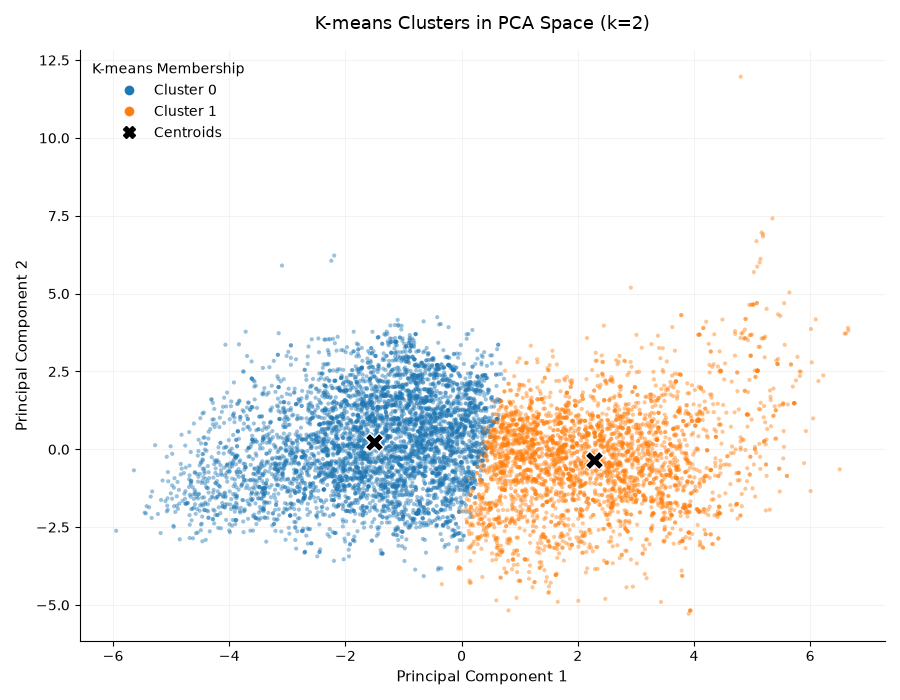
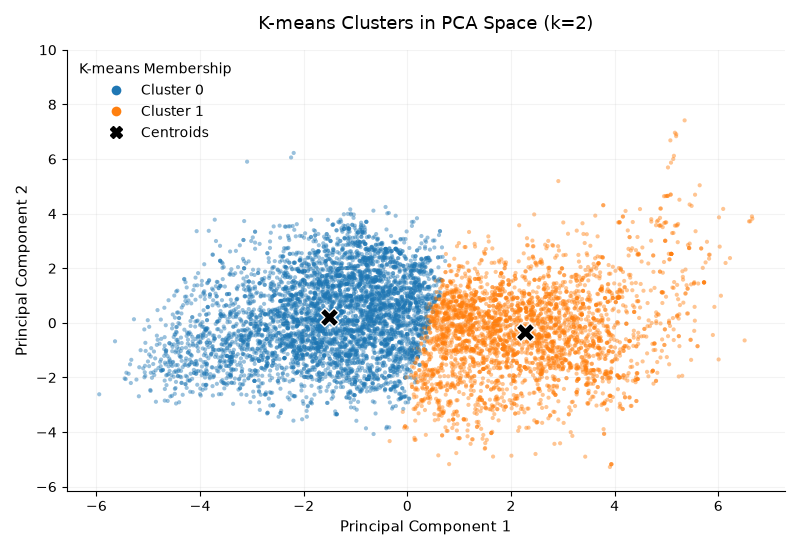
Add LOWESS curve to k-means scatterplot.

diff --git a/src/unsupervised_clustering/helper_functions.py b/src/unsupervised_clustering/helper_functions.py
@@ -12,9 +12,11 @@ import math
 import pandas as pd
 import numpy as np
 import matplotlib.pyplot as plt
+from matplotlib.lines import Line2D
 import seaborn as sns
 from sklearn.cluster import KMeans
 from sklearn.metrics import silhouette_score
+from statsmodels.nonparametric.smoothers_lowess import lowess
 
 from src.config import RANDOM_SEED
 
@@ -465,7 +467,7 @@ def plot_kmeans_silhouette(representations, k_range=range(2, 13), sample_size=30
 
     return results_df
 
-def plot_kmeans_pca_scatter(X_pca, n_clusters=2, n_components=5, point_size=9, alpha=0.45):
+def plot_kmeans_pca_scatter(X_pca, n_clusters=2, n_components=5, point_size=9, alpha=0.45, show_lowess=True, lowess_frac=0.3):
     """
     Fit K-means using the selected number of PCs and plot cluster membership in the PC1-PC2 plane.
 
@@ -481,6 +483,7 @@ def plot_kmeans_pca_scatter(X_pca, n_clusters=2, n_components=5, point_size=9, a
     labels : Cluster assignments.
     """
 
+    X_pca_df = X_pca.copy()
     X_pca = np.asarray(X_pca)
     X_model = X_pca[:, :n_components]
     model = KMeans(n_clusters=n_clusters, random_state=RANDOM_SEED, n_init=10)
@@ -491,41 +494,28 @@ def plot_kmeans_pca_scatter(X_pca, n_clusters=2, n_components=5, point_size=9, a
     palette = sns.color_palette("tab10", n_colors=n_clusters)
     colors = np.array(palette)[labels]
 
-    fig, ax = plt.subplots(figsize=(9,7))
+    fig, ax = plt.subplots(figsize=(8,5.5))
 
-    # Draw all observations in one scatter call
-    ax.scatter(
-        X_pca[:, 0],
-        X_pca[:, 1],
-        c=colors,
-        s=point_size,
-        alpha=alpha,
-        linewidths=0,
-        rasterized=True
-    )
+    # Scatter plot
+    ax.scatter(X_pca[:, 0], X_pca[:, 1], c=colors, s=point_size, alpha=alpha, linewidths=0, rasterized=True)
 
-    # Project fitted centroids onto PC1-PC2
+    if show_lowess:
+            smoothed = lowess(endog=X_pca_df["PC2"], exog=X_pca_df["PC1"], frac=lowess_frac, return_sorted=True)
+            ax.plot(smoothed[:, 0], smoothed[:, 1], color="black", linewidth=2.2, alpha=0.85, linestyle="--", zorder=5)
+
+    # Project fitted centroids onto scatter plot.
     centers = model.cluster_centers_[:, :2]
 
-    ax.scatter(
-        centers[:, 0],
-        centers[:, 1],
-        marker="X",
-        s=180,
-        c="black",
-        edgecolors="white",
-        linewidths=1,
-        zorder=5,
-        label="Centroids"
-    )
+    ax.scatter(centers[:, 0], centers[:, 1], marker="X", s=180, c="black", edgecolors="white", linewidths=1, zorder=5, label="Centroids")
 
     # Legend handles
-    from matplotlib.lines import Line2D
-
     handles = [Line2D([0], [0], marker="o", linestyle="", markerfacecolor=palette[i], markeredgecolor="none", markersize=7, label=f"Cluster {i}") for i in range(n_clusters)]
     handles.append(Line2D([0], [0], marker="X", linestyle="", color="black", markersize=9, label="Centroids"))
+    if show_lowess:
+            handles.append(Line2D([0], [0], color="black", linewidth=2.2, linestyle="--", label="LOWESS trend"))
 
     ax.legend(handles=handles, title="K-means Membership", frameon=False, loc="best")
+    ax.set_ylim(top=10)
     ax.set_title(f"K-means Clusters in PCA Space (k={n_clusters})", fontsize=13, pad=15)
     ax.set_xlabel("Principal Component 1", fontsize=11)
     ax.set_ylabel("Principal Component 2", fontsize=11)

diff --git a/src/unsupervised_clustering/gmm.py b/src/unsupervised_clustering/gmm.py
@@ -278,7 +278,7 @@ if __name__ == '__main__':
     #    "10 PCs": train_pca10
     #}
     #plot_kmeans_silhouette(representations=kmeans_silhouette_dict, k_range=range(2,13), sample_size=3000)
-    #plot_kmeans_pca_scatter(X_pca=X_pca_train, n_clusters=2, n_components=2, point_size=9, alpha=0.45)
+    plot_kmeans_pca_scatter(X_pca=X_pca_train, n_clusters=2, n_components=3, point_size=9, alpha=0.45, show_lowess=True, lowess_frac=0.3)
 
     #results_gmm_original = evaluate_gmm(X_train_processed, X_val_processed).sort_values("bic")
     #results_gmm_five_pcs = evaluate_gmm(train_pca5, val_pca5).sort_values("bic")
@@ -292,7 +292,7 @@ if __name__ == '__main__':
     # After evaluating for stability: (train_pca5, 5, n_init=30, random_state=4), (train_pca2, 6, n_init=30, random_state=16), (train_pca3, 8, n_init=30, random_state=10)
     #gmm_5_5, assignments_5_5 = fit_single_gmm(train_pca5, 5, pca_train_agtno, covariance_type='full', n_init=30, random_state=4)
     #gmm_2_6, assignments_2_6 = fit_single_gmm(train_pca2, n_components=6, agtno=pca_train_agtno, covariance_type='full', n_init=30, random_state=16)
-    gmm_3_8, assignments_3_8 = fit_single_gmm(train_pca3, n_components=8, agtno=pca_train_agtno, covariance_type='full', n_init=30, random_state=10)
+    #gmm_3_8, assignments_3_8 = fit_single_gmm(train_pca3, n_components=8, agtno=pca_train_agtno, covariance_type='full', n_init=30, random_state=10)
     #gmm_3_7, assignments_3_7 = fit_single_gmm(train_pca3, n_components=7, agtno=pca_train_agtno, covariance_type='full', n_init=30, random_state=21)
     
     # Evaluate component profiles using preimputed data.

diff --git a/src/unsupervised_clustering/visualizations.py b/src/unsupervised_clustering/visualizations.py
@@ -105,7 +105,7 @@ def gmm_pca_plot(X_pca_train: pd.DataFrame, X_gmm_train: pd.DataFrame, explained
     # Combine RGB and alpha into RGBA array
     colors = np.column_stack([cluster_colors, alpha])
 
-    fig, ax = plt.subplots(figsize=(8, 5.5))
+    fig, ax = plt.subplots(figsize=(10, 5.5))
 
     ax.scatter(plot_df["PC1"], plot_df["PC2"], s=10, c=colors, edgecolors="none", rasterized=True)
 
@@ -189,5 +189,5 @@ if __name__ == '__main__':
     original_feature_names = [s.removeprefix("other_cols__") for s in original_feature_names]
     original_feature_names = ["log_" + s[20:] if s.startswith("log_transform_") else s for s in original_feature_names]
 
-    fig, ax = gmm_pca_plot(X_pca_train, X_gmm_train_3_8, pca.explained_variance_ratio_, n_clusters=8, show_lowess=True, lowess_frac=0.5)
+    fig, ax = gmm_pca_plot(X_pca_train, X_gmm_train_3_8, pca.explained_variance_ratio_, n_clusters=8, show_lowess=False, lowess_frac=0.5)
     plt.show()
